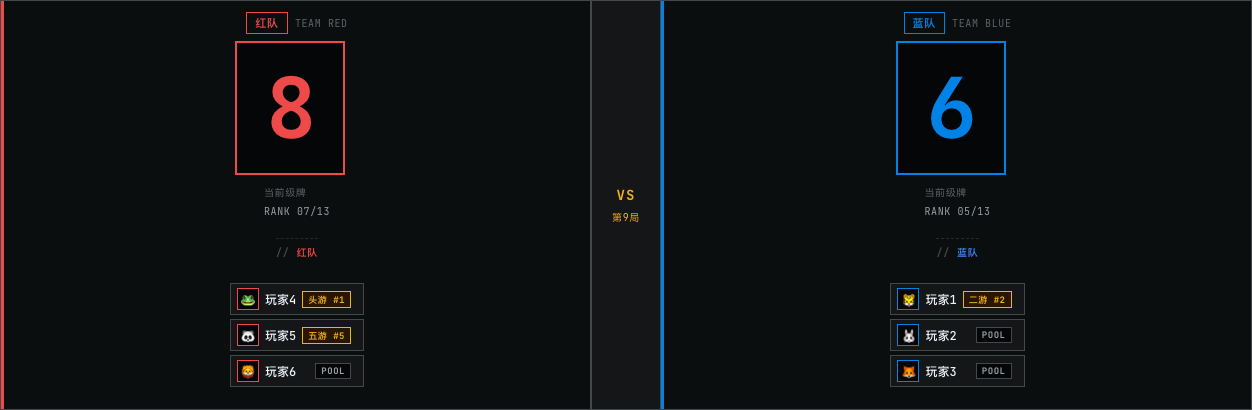
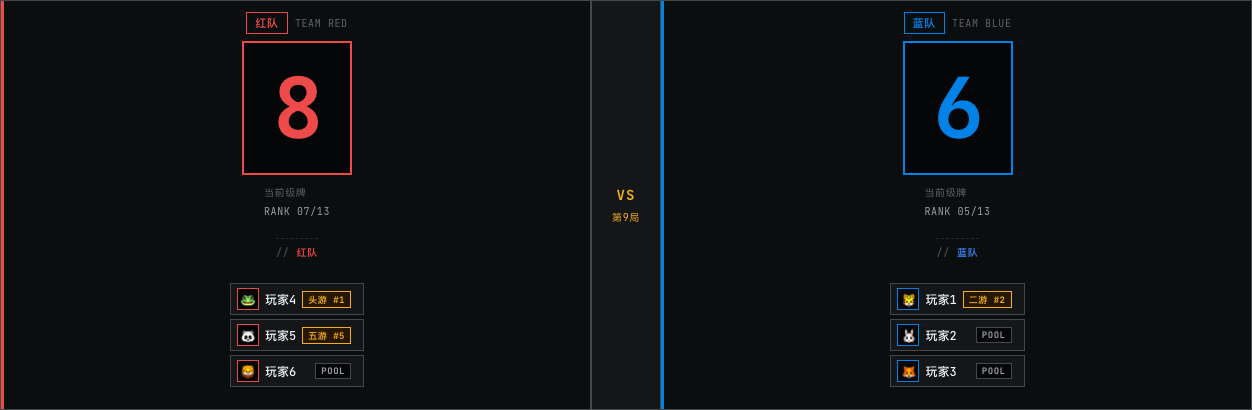
fix(ui): trading glyph centering + pool/slot row alignment + history seq order
- Bug 8 (Trading scoreboard): card-level switched from 2-col grid
  (110px 1fr, glyph left + sub right) to flex column with center
  alignment. Level glyph now stacks above sub info, both centered
  horizontally within the team panel — matches user expectation on
  mobile and desktop.
- Bug 5 (Pool/slots row alignment): pool tile min-height bumped 90→111px
  on desktop (≥769px) to match slot's empirical rendered height. Mobile
  was already 36px/36px but row spacing diverged because
  `.rank-slot { margin: 8px }` (desktop rule) leaked into mobile and
  inflated grid track from 39→55px; added `margin: 0 !important` to
  the mobile slot override. Row spacing now uniform across pool + slot
  at every viewport (390 / 768 / 820 / 1024).
- Bug 7 (History chip order): chips now render in sequential rank
  order 1..N (not winners-then-losers). Each chip carries its own team
  color via `--win.--blue / --red / --loss` modifiers — accent chips
  for winners, dim for losers, no group separator needed.

VR baselines refreshed for phase3-trading/, phase5-teatable/,
victory-cross-theme/. 83/83 passing.

Verification artifacts under docs/reports/bug-fix-2026-05-11/ (fix4-*
prefix = final state; trading-tablet-820-pool-slots.png covers the
tablet width where pool/slots stack side-by-side).

Changed region(s): [[0.1869, 0.1171, 0.2804, 0.4098], [0.7165, 0.1171, 0.8099, 0.4098]]

diff --git a/src/game/history.js b/src/game/history.js
@@ -47,10 +47,13 @@ function firstNameChar(p) {
   return Array.from(n)[0];
 }
 
-/** Build a "<rank>.<emoji><nameChar>" chip for one ranked player. */
-function makePlayerChip(rank, p) {
+/** Build a "<rank>.<emoji><nameChar>" chip for one ranked player.
+ *  variants: array of modifier suffixes — e.g. ['win','blue'] or ['loss']. */
+function makePlayerChip(rank, p, variants) {
   const chip = document.createElement('span');
-  chip.className = 'history__combo-chip';
+  const cls = ['history__combo-chip'];
+  (variants || []).forEach((v) => cls.push(`history__combo-chip--${v}`));
+  chip.className = cls.join(' ');
 
   const rankSpan = document.createElement('span');
   rankSpan.className = 'history__combo-rank';
@@ -73,12 +76,11 @@ function makePlayerChip(rank, p) {
 }
 
 /**
- * Build the 组合 cell — winners-then-losers, with each ranked player shown
- * as "<rank>.<emoji?><nameChar>" so the round reads narratively (e.g.
- * "1.🐸超 2.🐯豪 4.🐝夫 7.🍎塔 │ 3.🐬帆 5.🐰小 6.🐠鱼 8.🐢大") instead of
- * just position digits. Restores parity with the legacy single-file version
- * that the v10 refactor lost (numbers-only). Falls back to digit-only when
- * playerRankings is absent (older history rows pre-v10).
+ * Build the 组合 cell — sequential rank 1..N, with each chip carrying its
+ * own team-color modifier (winners get accent, losers get dim). Reads
+ * naturally: "1.🐸超 2.🍎塔 3.🐰小 4.🐢大 …" rather than reorganizing the
+ * round into winners-then-losers. Falls back to digit-only when
+ * playerRankings is absent (older pre-v10 history rows).
  */
 function makeComboCell(entry) {
   const cell = document.createElement('span');
@@ -90,27 +92,17 @@ function makeComboCell(entry) {
 
   // Prefer rich playerRankings (carries team membership + name + emoji per rank).
   if (entry.playerRankings && mode) {
-    const winners = [];
-    const losers = [];
+    const group = makeSpan('history__combo-group history__combo-group--seq');
+    let any = false;
     for (let r = 1; r <= mode; r++) {
       const p = entry.playerRankings[r];
       if (!p) continue;
-      (Number(p.team) === winnerSide ? winners : losers).push({ rank: r, player: p });
+      const variants = Number(p.team) === winnerSide ? ['win', winnerColor] : ['loss'];
+      group.appendChild(makePlayerChip(r, p, variants));
+      any = true;
     }
-    if (winners.length || losers.length) {
-      if (winners.length) {
-        const winGroup = makeSpan(
-          `history__combo-group history__combo-group--win history__combo-group--${winnerColor}`
-        );
-        winners.forEach(({ rank, player }) => winGroup.appendChild(makePlayerChip(rank, player)));
-        cell.appendChild(winGroup);
-      }
-      if (losers.length) {
-        cell.appendChild(makeSpan('history__combo-sep', '│'));
-        const lossGroup = makeSpan('history__combo-group history__combo-group--loss');
-        losers.forEach(({ rank, player }) => lossGroup.appendChild(makePlayerChip(rank, player)));
-        cell.appendChild(lossGroup);
-      }
+    if (any) {
+      cell.appendChild(group);
       return cell;
     }
   }

diff --git a/src/style.css b/src/style.css
@@ -699,13 +699,17 @@ details + details {
     text-overflow: ellipsis;
   }
 
-  /* Slots: same 36px height as pool tiles, same left-aligned compact row */
+  /* Slots: same 36px height as pool tiles, same left-aligned compact row.
+   * `margin: 0` zeroes the desktop `.rank-slot { margin: 8px }` which would
+   * otherwise add 16px to every grid row contribution and break row-by-row
+   * alignment with pool tiles (which carry no such margin). */
   .rank-slot.slot,
   .rank-slot,
   .slot {
     height: 36px !important;
     aspect-ratio: auto !important;
     min-height: 0 !important;
+    margin: 0 !important;
     padding: 4px 6px !important;
     display: flex !important;
     flex-direction: row !important;
@@ -778,26 +782,36 @@ details + details {
  * History combo chip — per-rank "<n>.<emoji><nameChar>" rendering
  *
  * Replaces the v10-era number-only "1·2·4·8" cells with named chips so
- * round summaries read narratively (matches the legacy single-file
- * version). Theme-agnostic: chips inherit color from the parent
- * `.history__combo-group--win/--loss` (already styled per theme).
+ * round summaries read narratively. Chips render in SEQUENTIAL rank
+ * order (1..N) — each chip carries its own team-color modifier, so
+ * winners and losers interleave naturally rather than being grouped.
  *
- * Layout: `.history__combo-group` becomes inline-flex of chips with a
- * small gap. Each chip is inline-flex with rank, optional emoji, and
- * first-name char, baseline-aligned so emoji + char sit on the same
- * line as the rank prefix.
+ * Per-chip color via `.history__combo-chip--win.--blue` / `.--red` /
+ * `.--loss`. Theme-agnostic: blue/red use --team-blue / --team-red
+ * tokens that every theme guarantees; loss uses --ink-dim.
  * ============================================================ */
 .history__combo-group {
   display: inline-flex;
   flex-wrap: wrap;
   align-items: baseline;
-  gap: 4px 8px;
+  gap: 4px 10px;
 }
 .history__combo-chip {
   display: inline-flex;
   align-items: baseline;
   gap: 1px;
   white-space: nowrap;
+  color: var(--ink-dim, currentColor);
+}
+.history__combo-chip--win.history__combo-chip--blue {
+  color: var(--team-blue);
+}
+.history__combo-chip--win.history__combo-chip--red {
+  color: var(--team-red);
+}
+.history__combo-chip--loss {
+  color: var(--ink-dim);
+  opacity: 0.7;
 }
 .history__combo-rank {
   font-variant-numeric: tabular-nums;

diff --git a/src/themes/trading/theme.css b/src/themes/trading/theme.css
@@ -409,14 +409,16 @@
   text-transform: uppercase;
 }
 
-/* Card-level: ASCII tile with corner glyphs */
+/* Card-level: ASCII tile with corner glyphs.
+ * Centered flex column — glyph stacks above sub info, both centered
+ * horizontally within the team panel (was left-aligned 2-col grid). */
 :root[data-theme="trading"] .card-level {
-  display: grid;
-  grid-template-columns: 110px 1fr;
-  gap: var(--s4);
+  display: flex;
+  flex-direction: column;
   align-items: center;
+  gap: var(--s3);
   padding: 0;
-  text-align: left;
+  text-align: center;
   position: static;
 }
 :root[data-theme="trading"] .card-level__glyph {
@@ -825,7 +827,12 @@
   min-height: 60px;
 }
 
-/* Pool tile — drag source */
+/* Pool tile — drag source.
+ * `min-height: 111px` matches the slot tile's empirical rendered height
+ * (slot has min-height 90px + s3 padding + flex-column content of pos
+ * label + rank/placeholder, totaling ~111px). Without matching, pool
+ * tiles render ~50px and slot tiles render ~110px, breaking the
+ * row-by-row alignment between pool item N and slot item N. */
 :root[data-theme="trading"] .pool-tile,
 :root[data-theme="trading"] .ranking-player-tile.pool-tile {
   background: var(--surface-2);
@@ -838,6 +845,7 @@
   align-items: center;
   cursor: grab;
   font-family: var(--font-mono);
+  min-height: 111px;
 }
 :root[data-theme="trading"] .pool-tile:hover {
   border-color: var(--accent);
@@ -2336,11 +2344,12 @@
 }
 
 /* Image 46 — desktop pool/slot column alignment.
- * Slot is min-height 90px; bump pool tile to match for column rhythm. */
+ * Slot's min-height 90px + s3 padding + flex-column content renders ~111px;
+ * pool tile is bumped to match so pool row N and slot row N share Y. */
 @media (min-width: 769px) {
   :root[data-theme="trading"] .pool-tile,
   :root[data-theme="trading"] .ranking-player-tile.pool-tile {
-    min-height: 90px;
+    min-height: 111px;
     grid-template-columns: 1fr;
     grid-template-rows: auto 1fr auto;
     padding: var(--s3);
